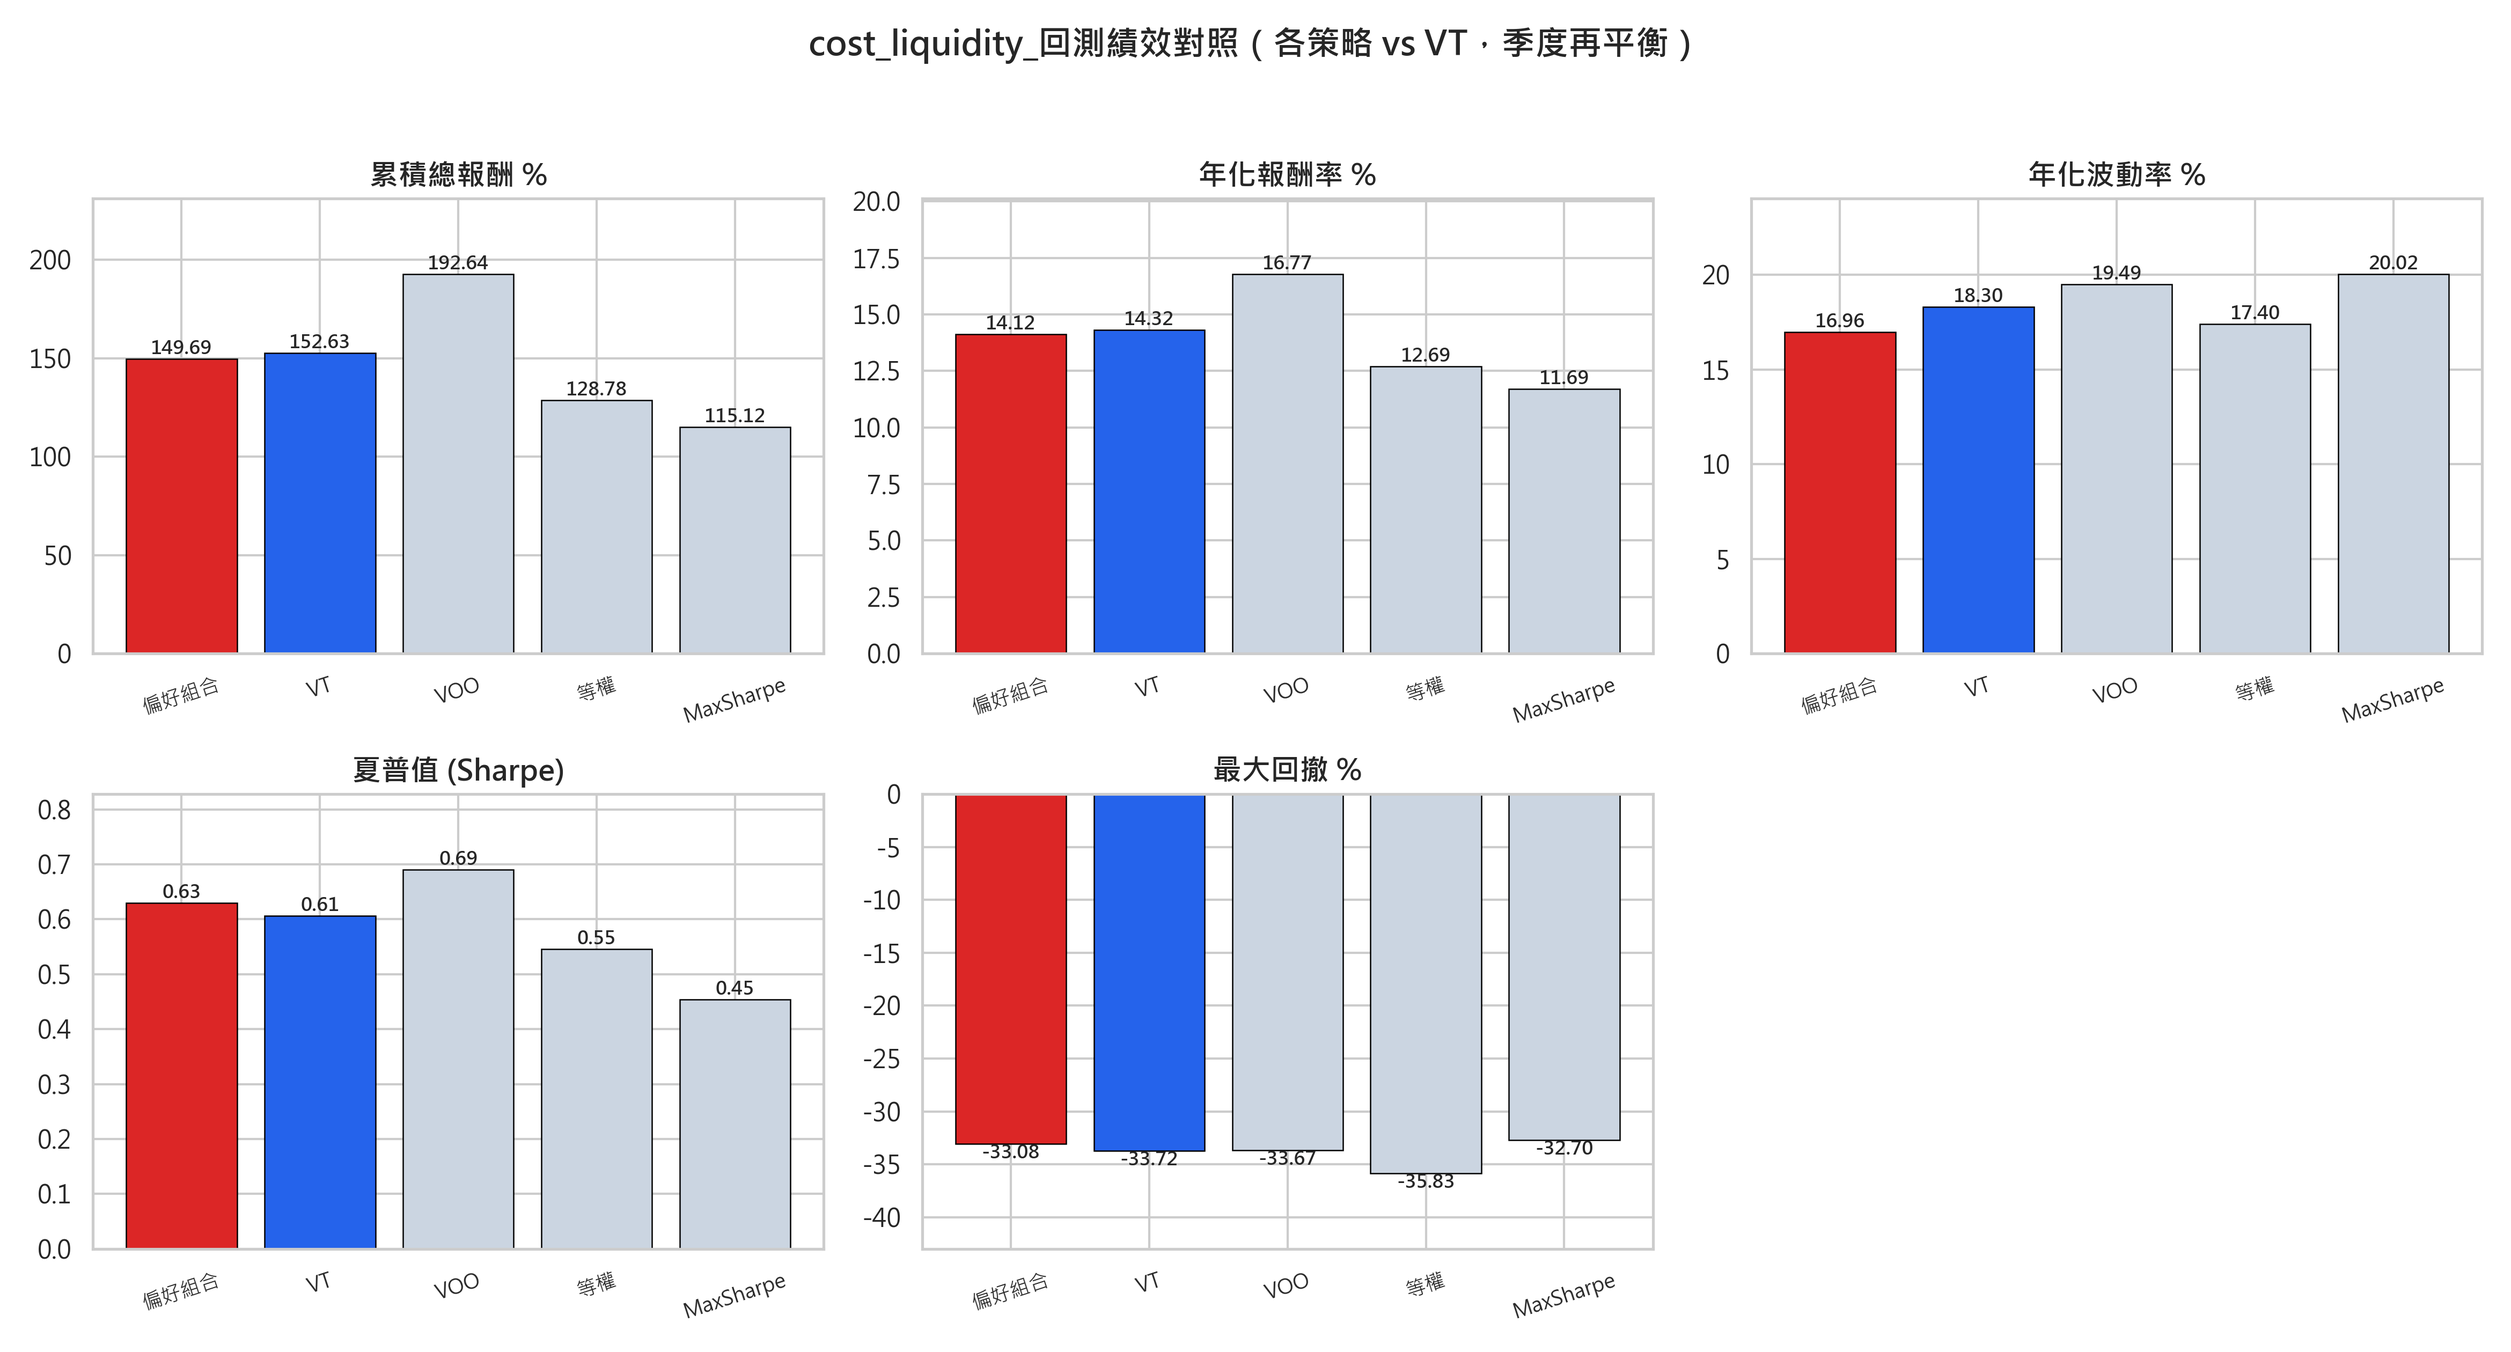
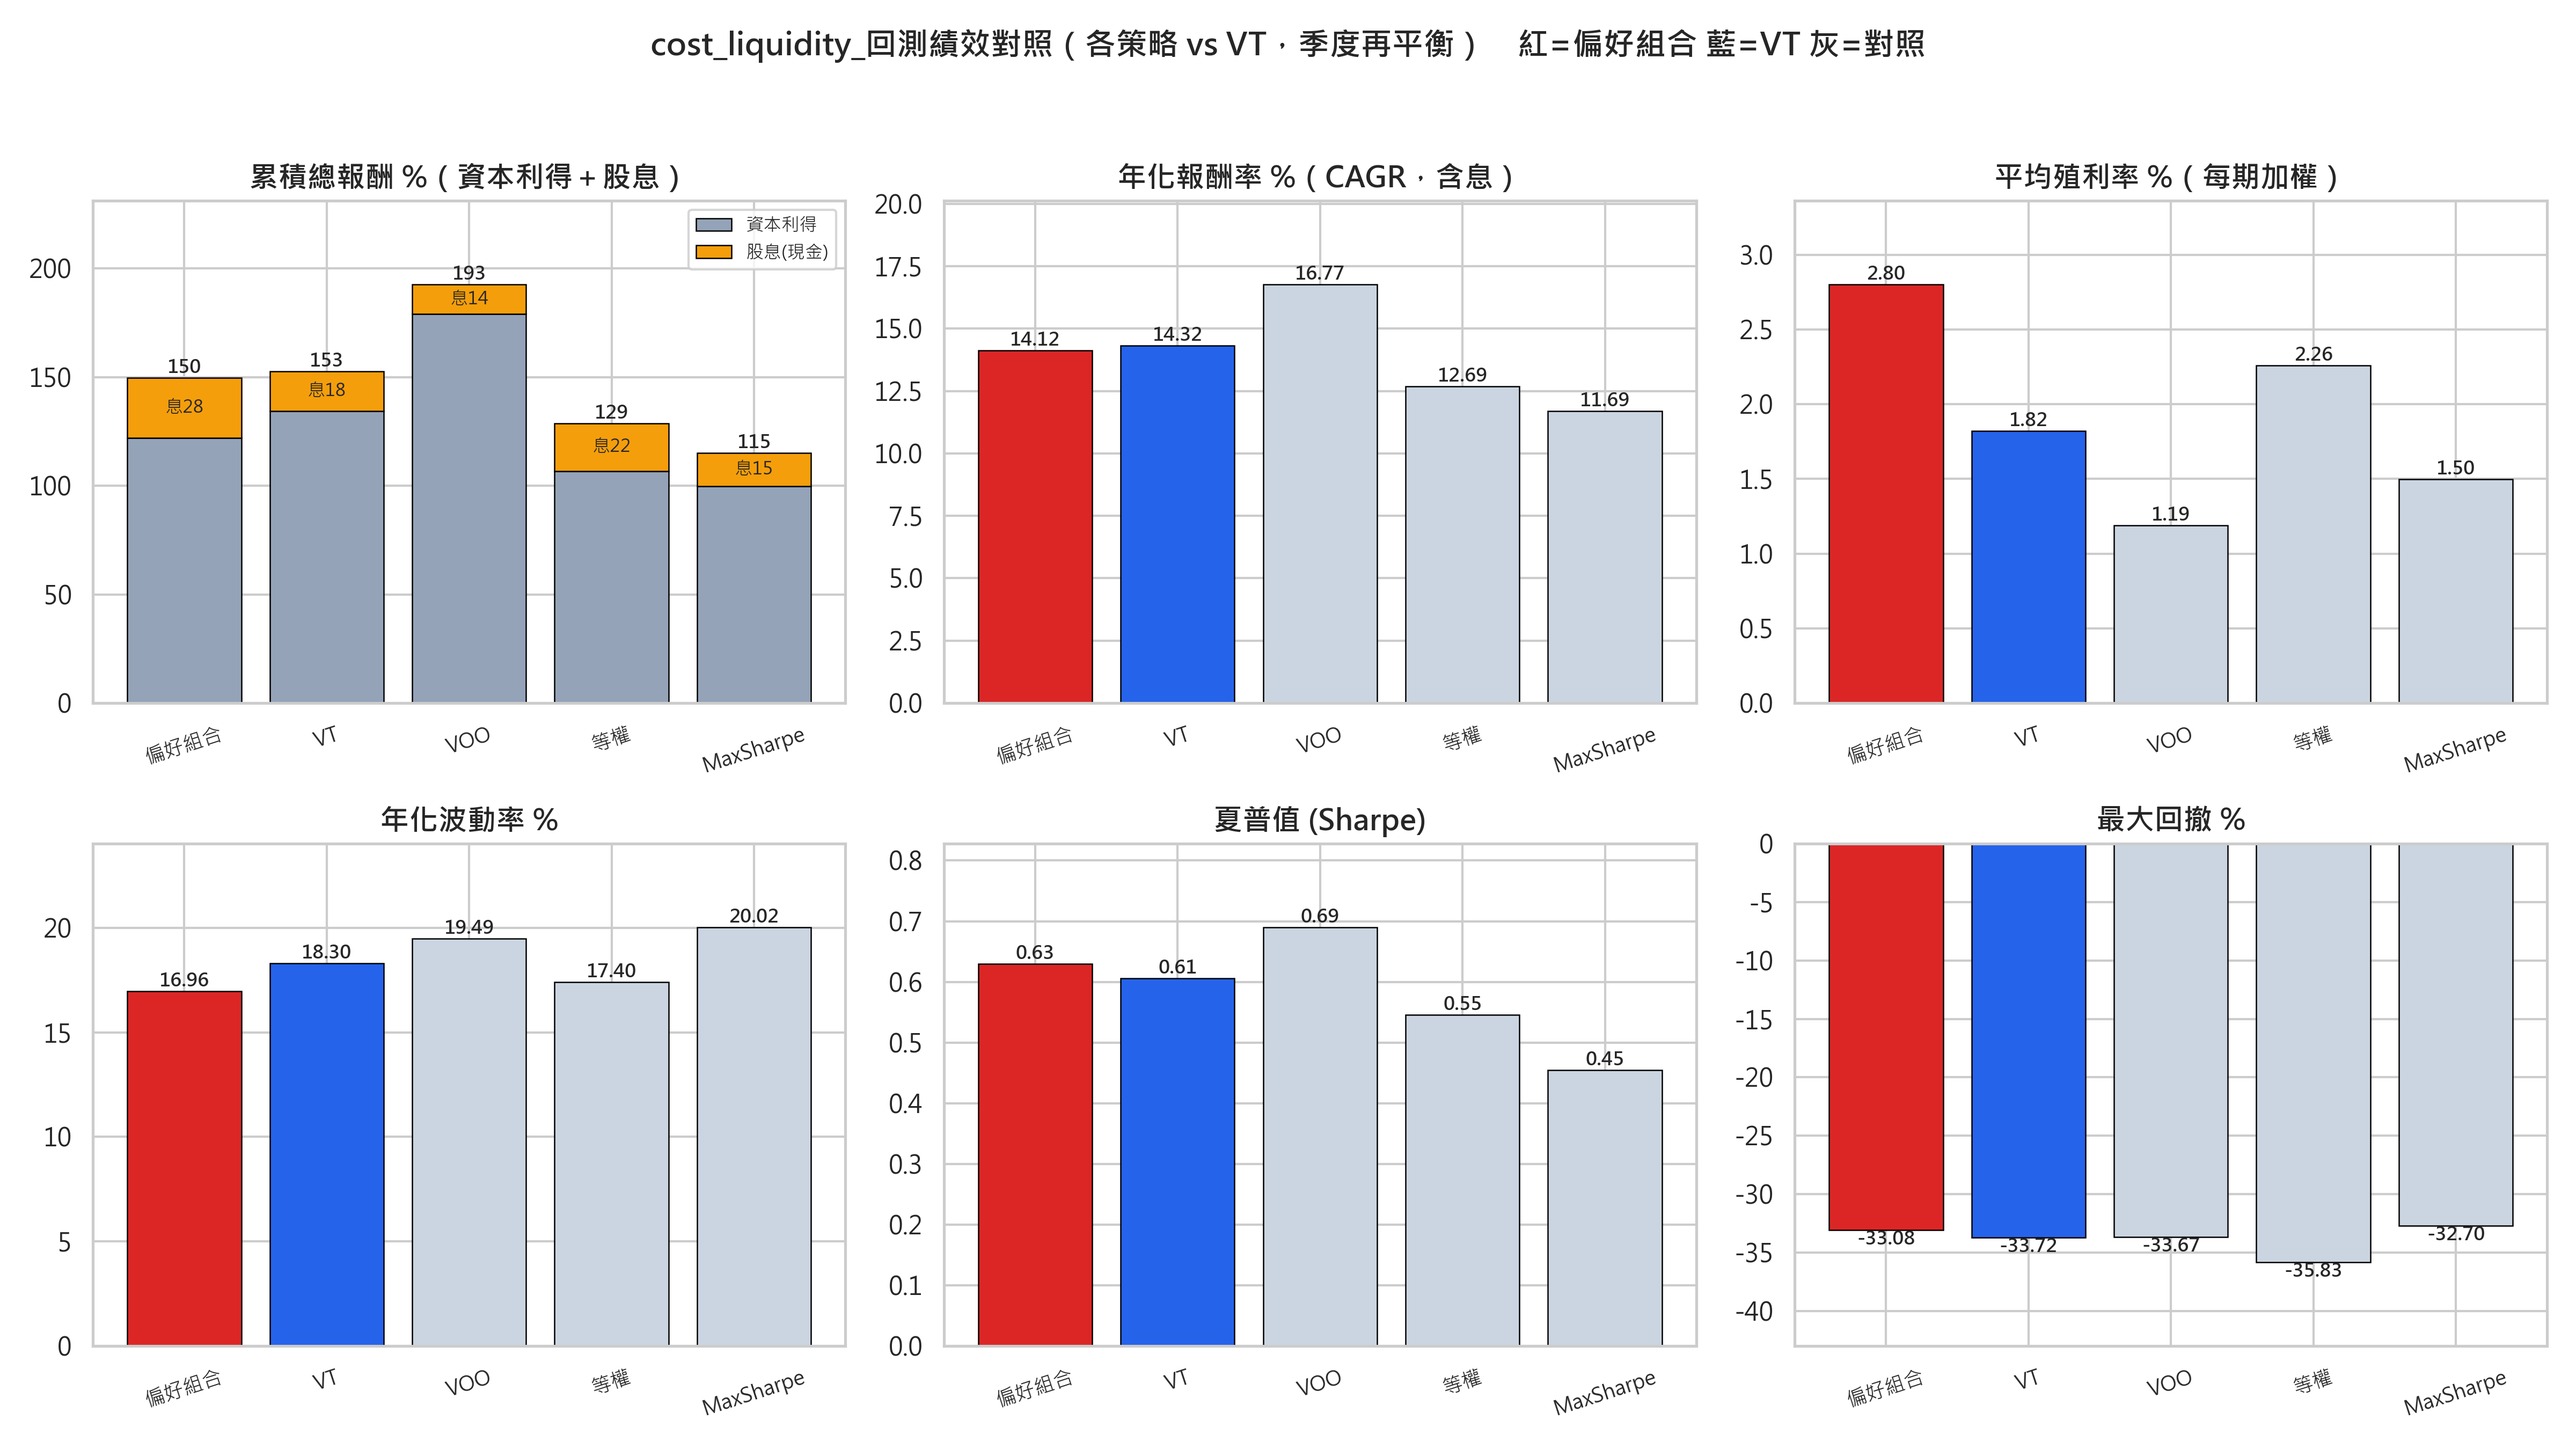
Metrics chart: add dividend story (stacked capital-gain+dividend, avg yield) so income preference is visible
income's div preference (40%) is satisfied: avg dividend yield 4.83% vs VT 1.82% (2.7x, highest of all), cumulative dividend return 39.4% vs VT 18.3%. Chart now has 6 panels incl stacked total-return (gold = dividend cash) and avg-yield; pulls Avg_Raw_Dividend_Yield_% from dimension_comparison. Regenerated for 7 showcase users; report notes the income evidence + that CAGR includes dividends (cap gain + cash dividend, not reinvested).

diff --git a/backtest_engine.py b/backtest_engine.py
@@ -1674,11 +1674,11 @@ def _plot_dea_distribution_backtest(dea_results: pd.DataFrame, output_path: Path
     plt.close()
 
 
-def _plot_backtest_metrics_comparison(summary_df: pd.DataFrame, output_path: Path, title_prefix: str = "") -> None:
-    """把回測 Performance Summary 的關鍵數據畫成「各策略 vs VT」對照長條圖（取代看 CSV）。
-
-    每個指標一個子圖（累積總報酬 / 年化報酬 / 年化波動 / 夏普 / 最大回撤），
-    偏好組合(紅)與 VT(藍)highlight，其餘對照組灰色；長條上標數值。
+def _plot_backtest_metrics_comparison(summary_df: pd.DataFrame, dimension_df: "pd.DataFrame | None",
+                                      output_path: Path, title_prefix: str = "") -> None:
+    """把回測關鍵數據畫成「各策略 vs VT」對照圖（取代看 CSV）：
+    累積總報酬(資本利得+股息堆疊) / 年化報酬(含息) / 平均殖利率 / 年化波動 / 夏普 / 最大回撤。
+    偏好組合(紅)、VT(藍)highlight，其餘對照組(灰)；股息以金色堆疊，讓收入型偏好是否被滿足一眼可見。
     """
     if summary_df is None or summary_df.empty or "Strategy" not in summary_df.columns:
         return
@@ -1686,45 +1686,77 @@ def _plot_backtest_metrics_comparison(summary_df: pd.DataFrame, output_path: Pat
     plt.rcParams["font.sans-serif"] = ["Microsoft JhengHei", "Arial Unicode MS", "Arial"]
     plt.rcParams["axes.unicode_minus"] = False
 
-    df = summary_df.copy()
-    df = df.drop_duplicates(subset="Strategy").set_index("Strategy")
+    df = summary_df.copy().drop_duplicates(subset="Strategy").set_index("Strategy")
     order = [s for s in ["Preference_Driven", "VT", "VOO", "EqualWeight", "MaxSharpe"] if s in df.index]
     if not order:
         return
     label = {"Preference_Driven": "偏好組合", "VT": "VT", "VOO": "VOO",
              "EqualWeight": "等權", "MaxSharpe": "MaxSharpe"}
     color = {"Preference_Driven": "#DC2626", "VT": "#2563EB"}
-    metrics = [
-        ("Cumulative_Return_%", "累積總報酬 %"),
-        ("CAGR_%", "年化報酬率 %"),
-        ("Annualized_Volatility_%", "年化波動率 %"),
-        ("Sharpe", "夏普值 (Sharpe)"),
-        ("Max_Drawdown_%", "最大回撤 %"),
-    ]
-    metrics = [(c, t) for c, t in metrics if c in df.columns]
-    if not metrics:
-        return
+    xs = list(range(len(order)))
+    xt = [label.get(s, s) for s in order]
 
-    ncol = 3
-    nrow = int(np.ceil(len(metrics) / ncol))
-    fig, axes = plt.subplots(nrow, ncol, figsize=(5.2 * ncol, 4.2 * nrow))
-    axes = np.array(axes).reshape(-1)
-    for i, (col, title) in enumerate(metrics):
-        ax = axes[i]
-        vals = [float(pd.to_numeric(df.loc[s, col], errors="coerce")) for s in order]
-        bar_colors = [color.get(s, "#CBD5E1") for s in order]
-        bars = ax.bar(range(len(order)), vals, color=bar_colors, edgecolor="black", linewidth=0.6)
+    # 每期加權「平均殖利率」取自 dimension comparison（收入型招牌指標）
+    ydiv = None
+    if dimension_df is not None and not getattr(dimension_df, "empty", True):
+        dd = dimension_df.copy()
+        if "Strategy" not in dd.columns and dd.index.name == "Strategy":
+            dd = dd.reset_index()
+        if "Strategy" in dd.columns and "Avg_Raw_Dividend_Yield_%" in dd.columns:
+            ydiv = dd.drop_duplicates(subset="Strategy").set_index("Strategy")
+
+    def _num(src, s, col):
+        try:
+            return float(pd.to_numeric(src.loc[s, col], errors="coerce"))
+        except Exception:
+            return float("nan")
+
+    def simple_bar(ax, col, title, src=None):
+        src = df if src is None else src
+        vals = [_num(src, s, col) for s in order]
+        bars = ax.bar(xs, vals, color=[color.get(s, "#CBD5E1") for s in order],
+                      edgecolor="black", linewidth=0.6)
         ax.set_title(title, fontsize=13, fontweight="bold")
-        ax.set_xticks(range(len(order)))
-        ax.set_xticklabels([label.get(s, s) for s in order], rotation=18, fontsize=9)
+        ax.set_xticks(xs); ax.set_xticklabels(xt, rotation=18, fontsize=9)
         ax.axhline(0, color="black", linewidth=0.8)
         for b, v in zip(bars, vals):
-            ax.annotate(f"{v:.2f}", (b.get_x() + b.get_width() / 2, v),
-                        ha="center", va="bottom" if v >= 0 else "top", fontsize=8.5, fontweight="bold")
+            if v == v:
+                ax.annotate(f"{v:.2f}", (b.get_x() + b.get_width() / 2, v),
+                            ha="center", va="bottom" if v >= 0 else "top", fontsize=8.5, fontweight="bold")
         ax.margins(y=0.20)
-    for j in range(len(metrics), len(axes)):
-        axes[j].axis("off")
-    fig.suptitle(f"{title_prefix}回測績效對照（各策略 vs VT，季度再平衡）", fontsize=15, fontweight="bold")
+
+    fig, axes = plt.subplots(2, 3, figsize=(16, 9))
+    axes = np.array(axes).reshape(-1)
+
+    # (1) 累積總報酬 = 資本利得 + 股息（堆疊，金色為股息）
+    ax = axes[0]
+    if {"Capital_Gain_Return_%", "Dividend_Income_Return_%"}.issubset(df.columns):
+        cg = [_num(df, s, "Capital_Gain_Return_%") for s in order]
+        dv = [_num(df, s, "Dividend_Income_Return_%") for s in order]
+        ax.bar(xs, cg, color="#94A3B8", edgecolor="black", linewidth=0.6, label="資本利得")
+        ax.bar(xs, dv, bottom=cg, color="#F59E0B", edgecolor="black", linewidth=0.6, label="股息(現金)")
+        for i in xs:
+            tot = cg[i] + dv[i]
+            ax.annotate(f"{tot:.0f}", (i, tot), ha="center", va="bottom", fontsize=8.5, fontweight="bold")
+            if dv[i] > 4:
+                ax.annotate(f"息{dv[i]:.0f}", (i, cg[i] + dv[i] / 2), ha="center", va="center", fontsize=8)
+        ax.set_title("累積總報酬 %（資本利得＋股息）", fontsize=13, fontweight="bold")
+        ax.set_xticks(xs); ax.set_xticklabels(xt, rotation=18, fontsize=9)
+        ax.legend(fontsize=8, loc="upper right"); ax.margins(y=0.20)
+    else:
+        simple_bar(ax, "Cumulative_Return_%", "累積總報酬 %（含息）")
+
+    simple_bar(axes[1], "CAGR_%", "年化報酬率 %（CAGR，含息）")
+    if ydiv is not None:
+        simple_bar(axes[2], "Avg_Raw_Dividend_Yield_%", "平均殖利率 %（每期加權）", src=ydiv)
+    else:
+        simple_bar(axes[2], "Dividend_Income_Return_%", "累積股息報酬 %")
+    simple_bar(axes[3], "Annualized_Volatility_%", "年化波動率 %")
+    simple_bar(axes[4], "Sharpe", "夏普值 (Sharpe)")
+    simple_bar(axes[5], "Max_Drawdown_%", "最大回撤 %")
+
+    fig.suptitle(f"{title_prefix}回測績效對照（各策略 vs VT，季度再平衡）　紅=偏好組合 藍=VT 灰=對照",
+                 fontsize=14, fontweight="bold")
     plt.tight_layout(rect=(0, 0, 1, 0.95))
     plt.savefig(output_path, dpi=300)
     plt.close()
@@ -2309,7 +2341,7 @@ def _write_unified_backtest_report(
     _plot_backtest_performance_report(nav, png_dir / f"{prefix}_portfolio_performance.png")
     _plot_annual_returns(annual_returns, png_dir / f"{prefix}_annual_returns.png")
     _plot_weight_evolution(weights_df, png_dir / f"{prefix}_weight_evolution.png")
-    _plot_backtest_metrics_comparison(summary_df, png_dir / f"{prefix}_metrics_comparison.png")
+    _plot_backtest_metrics_comparison(summary_df, dimension_comparison_df, png_dir / f"{prefix}_metrics_comparison.png")
     # 雷達圖已停用，待日後以「偏好分數」為核心重新設計後再接回（見 03_planned_upgrade_items.md V-1/V-6）。
     # _plot_backtest_radar 函式保留在檔案中供未來重用，目前不輸出 radar_chart.png。
     _plot_backtest_outputs(nav, prefix, png_dir)

diff --git a/user_results/showcase_7_profiles/對照分析報告.md b/user_results/showcase_7_profiles/對照分析報告.md
@@ -73,6 +73,10 @@ aggressive_growth（17.58%）、return_leaning（16.40%）是 7 人中唯二 CAG
 **(2) market / minvar 核心換來的是「風險效率」與「偏好滿足」，不是絕對報酬。**
 balanced / cost_liquidity / diversified_quality / income / conservative 的 CAGR 都 < VT，但波動全部 < VT（14–17% vs 18.3%）。其中 cost_liquidity 的 Sharpe（0.630）甚至高於 VT。conservative 最保守：最低波動（14.02%）、最低 CAGR（9.70%）。**這就是誠實的定位——不是打敗市場報酬，而是更安全、更貼合偏好。**
 
+**(2b) 收入型（income）的偏好確實被滿足 —— 用股息證明。** income 把 40% 偏好放在殖利率。回測中 income 投組的**平均殖利率 4.83%，是 VT（1.82%）的 2.7 倍**，且為 7 策略最高；**累積股息報酬 39.4% vs VT 18.3%**（逾兩倍）。雖然 income 的總報酬/CAGR 低於 VT（它本就不追資本利得），但它**在自己最在意的維度（股息）上大幅勝出**，加上 win_VT 100%、波動更低（15.68% vs 18.3%）→ 偏好被確實滿足。（見各使用者回測夾的 `…_metrics_comparison.png`：「平均殖利率」子圖，以及堆疊「累積總報酬」圖中的金色股息塊。）
+
+> 註：本系統的 **CAGR / 累積總報酬已含股息**（= 資本利得 + 估計現金股息，股息以現金持有、未再投入）；報表另把兩者拆開（`Capital_Gain_Return_%` / `Dividend_Income_Return_%`），故可分別檢視。
+
 **(3) 對「天真基準」幾乎全面壓制。** 7 人對 EqualWeight / MaxSharpe 的偏好勝率幾乎都是 **93–100%**——系統在「滿足使用者偏好」這件事上穩定勝過等權與最大夏普。
 
 **(4) 兩個誠實的張力（不掩飾）：**
